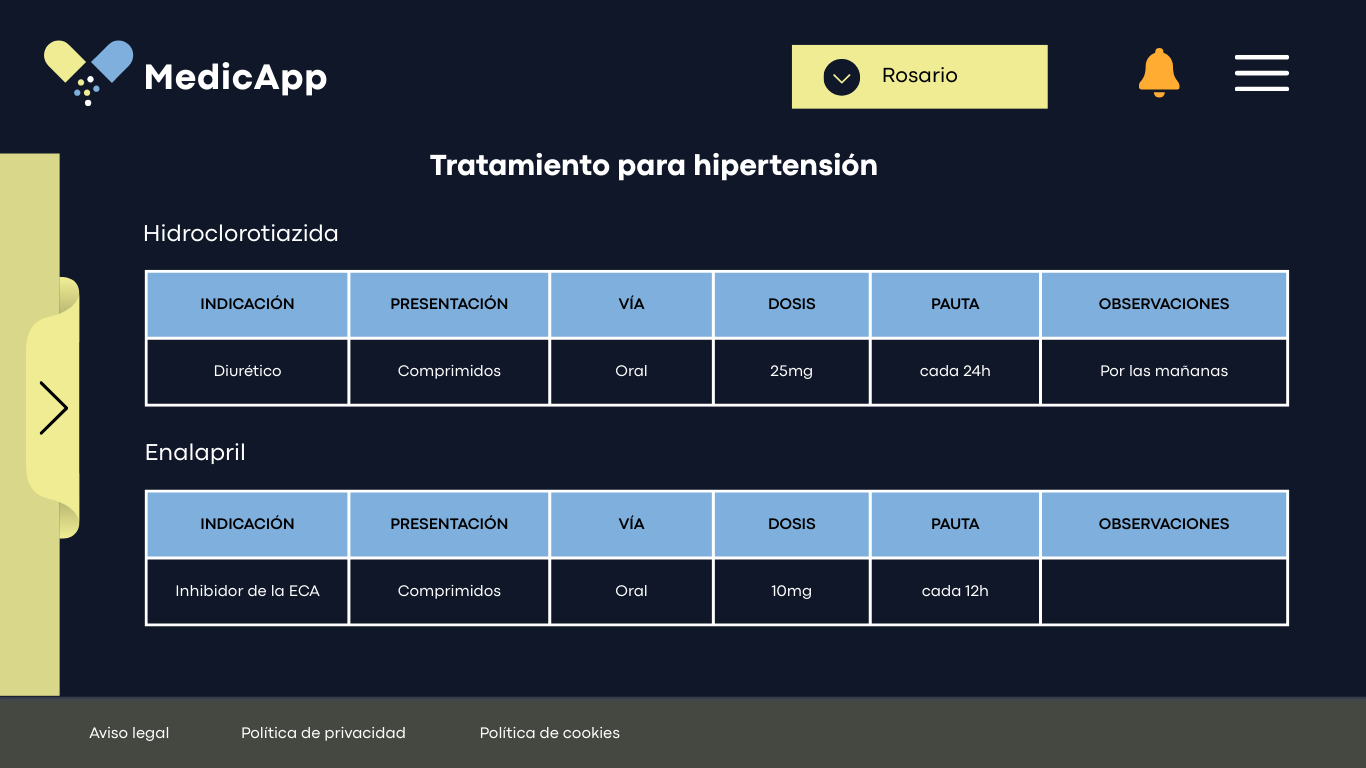
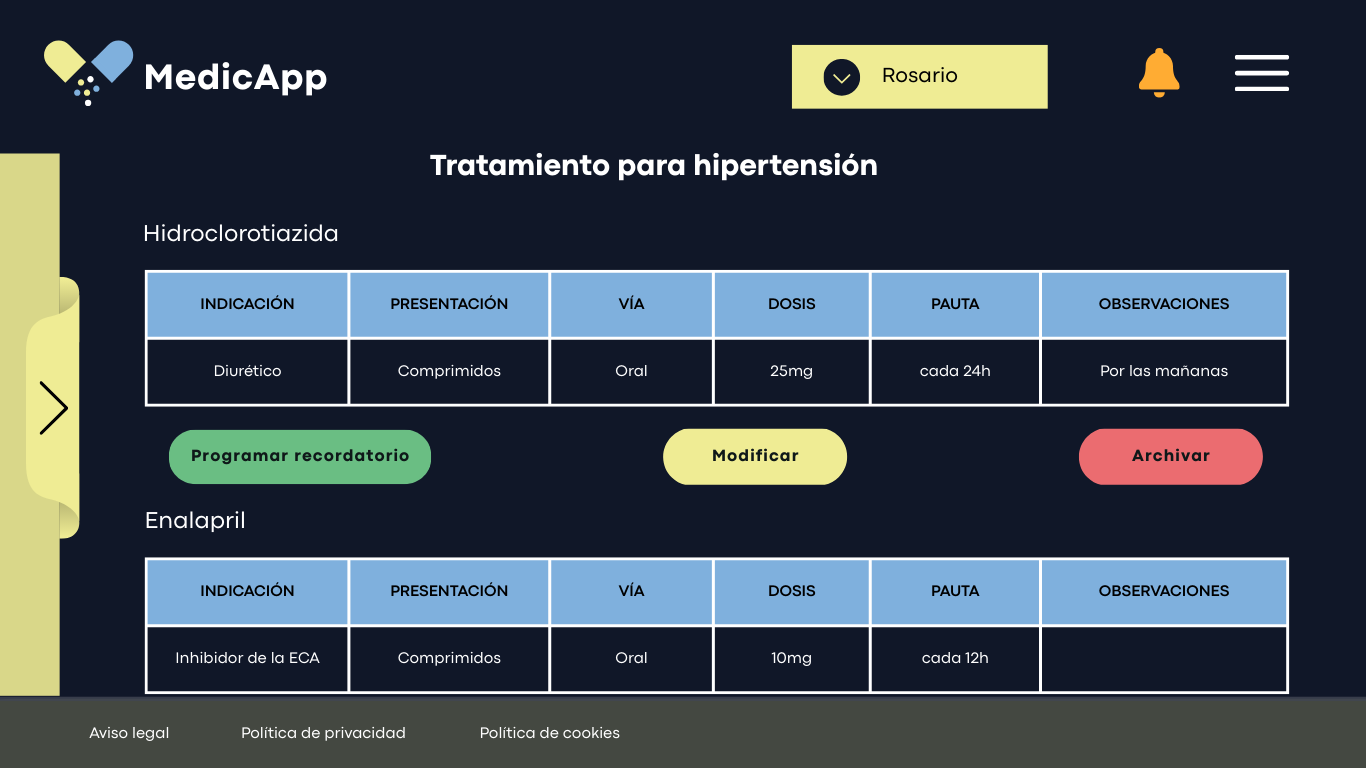
cambio diagrama db + novas vistas

Changed region(s): [[0.0922, 0.5312, 0.9531, 0.9062]]

diff --git a/doc/templates/3_deseno.md b/doc/templates/3_deseno.md
@@ -79,7 +79,11 @@ Na táboa, os tratamentos arquivados aparecerán ao final, e os activos más nov
 
 !["Vista detalles tratamento"](/doc/img/interfaces/vistaDetallesTratamento.png)
 
-### Interface citas médicas para Usuario Estándar (invitado)
+### Interface de programación de recordatorio para tomas
+
+!["Vista programación de recordatorio"](/doc/img/interfaces/vistaRecordatorio.png)
+
+### Interface de citas médicas para Usuario Estándar (invitado)
 
 O botón verde co "+" levaranos á interface de creación de citas.
 A versión para Usuario Estándar será totalmente igual pero sen a columna "Creado por", xa que non tería sentido se so xestiona unha persoa ese perfil.
